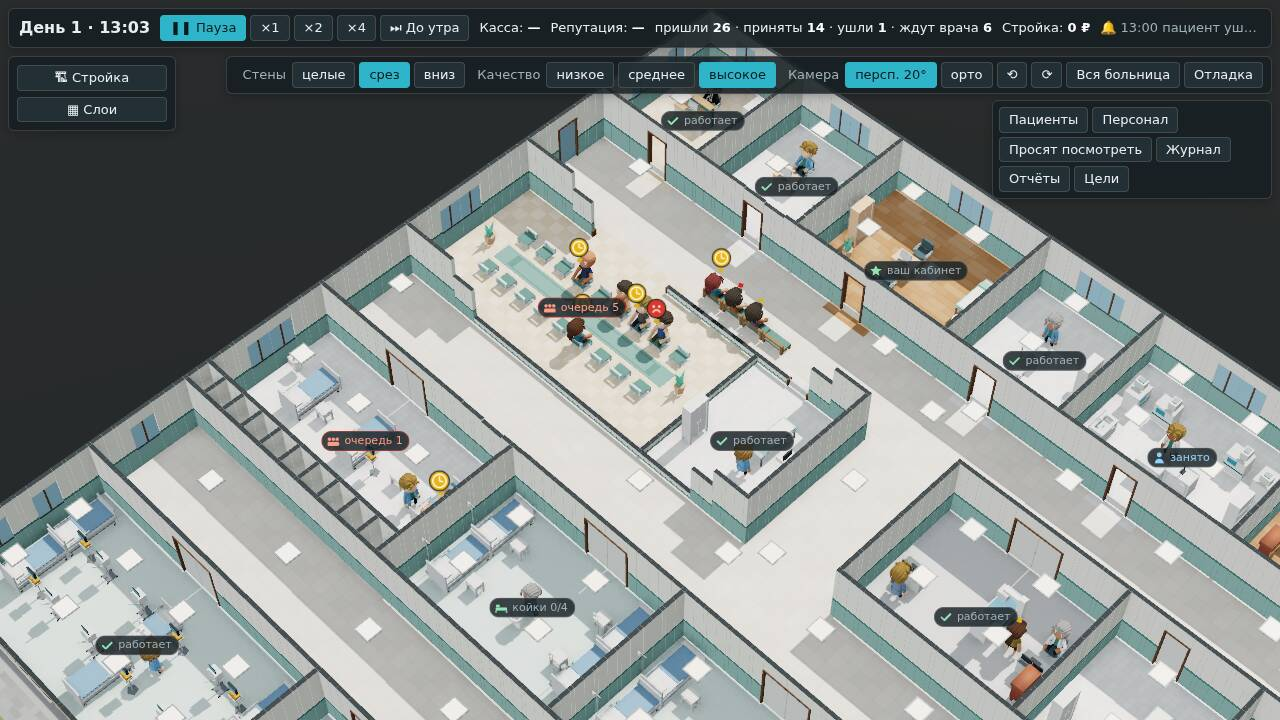
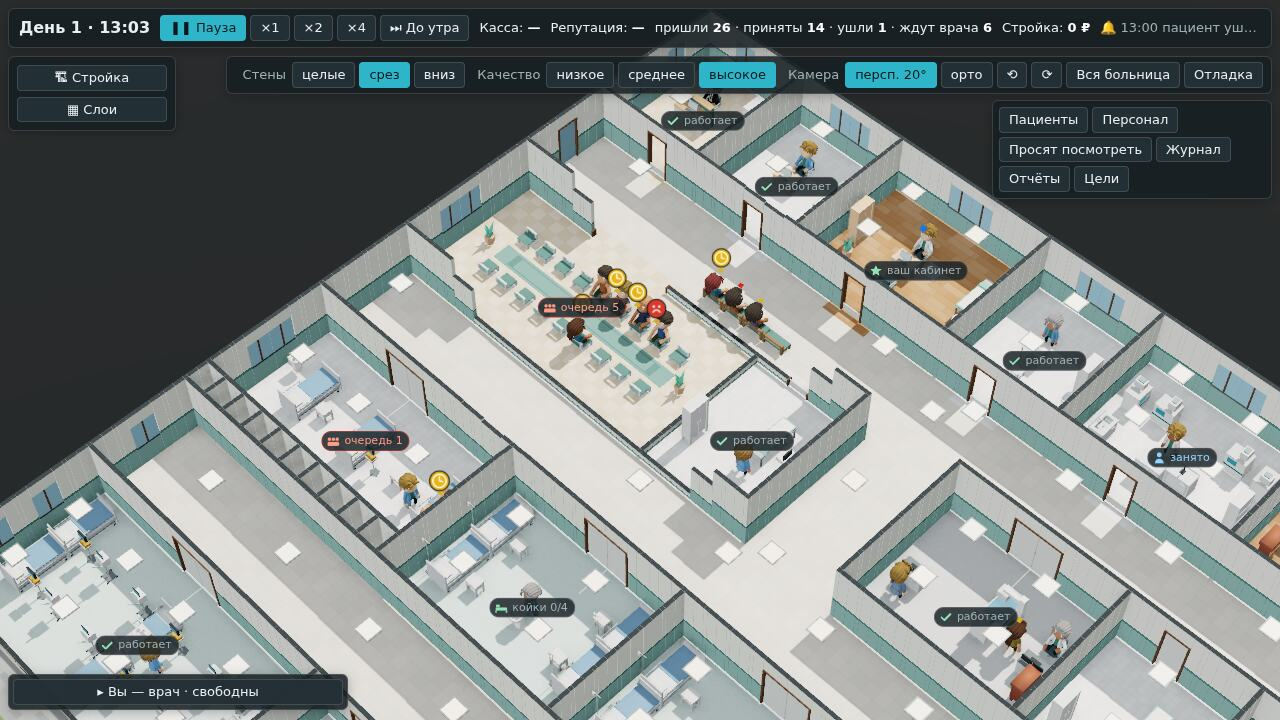
Часть 3 на слитом коде: сценарий — четыре части, в части 3 окно врача свёрнуто и автопауза выключена; снимки заново; спецификация — проверки
Сценарий в браузере на коде, слитом с main (#20), — все четыре части зелёные; `npm test` — 647 тестов, все зелёные. Часть
3 сворачивает окно врача кнопкой (иначе оно закрывает левую часть карты) и выключает автопаузу режима врача (просьбы
останавливали бы часы). Снимки части 3 — заново, с окном врача свёрнутым.

Claude-Session: https://claude.ai/code/session_01YM2DkxcMJ4fGTUC8wUjV2Z

Changed region(s): [[0.0, 0.9167, 0.2812, 1.0], [0.4375, 0.3361, 0.5312, 0.4583], [0.6875, 0.3056, 0.75, 0.3667]]

diff --git a/docs/specs/2026-10-flow-ui.md b/docs/specs/2026-10-flow-ui.md
@@ -200,7 +200,7 @@
 - **Срез**: `since`, `limit`, просьба — туда и обратно в упаковке; «ждёт обследования» до начала процедуры.
 - **Окно** (`tools/test/flow-ui.test.ts`, без DOM): строки пути из пути движка (причины, длительности, ушёл), состояние
   помещений, очередь и ожидание по помещениям, фильтры списка.
-- **Сценарий в браузере** (`npm run e2e`, часть 3): готовая больница к 11:30 — пациенты ходят (люди сдвигаются), есть
+- **Сценарий в браузере** (`npm run e2e`, часть 3): готовая больница к 13:00 — пациенты ходят (люди сдвигаются), есть
   значок «ждёт долго» или «недоволен», значки помещений; вкладка «Пациенты» — фильтр, клик — камера летит, карточка с
   путём и причиной ожидания; «Ушли» — путь ушедшего с причиной; слой — пол окрашен, над помещениями очередь; снимки.
 
@@ -243,8 +243,9 @@
 
 ## Как сделано
 
-Сделано 17.10.2026 в ветке `claude/flow-ui` (на `main` с #18 и #19). Снимки и числа — из контейнера агента: видеокарты
-там нет, WebGL программный (SwiftShader), а процессор делили параллельные сессии других частей.
+Сделано 17.10.2026 в ветке `claude/flow-ui` (на `main` с #18, #19 и режимом врача #20; версия 0.0.6). Снимки и числа —
+из контейнера агента: видеокарты там нет, WebGL программный (SwiftShader), а процессор делили параллельные сессии других
+частей.
 
 **Что видит игрок.** В готовой больнице к полудню у единственного терапевта — очередь: над ждущими в зале — жёлтые
 часы («ждёт долго»), у того, чьё терпение на исходе, — красное недовольное лицо; кто не дождался, встаёт и идёт к выходу
@@ -271,21 +272,25 @@
 5. **Время ухода в «Ушли»** — срок терпения из среза (`limit`): извещение при промотке приходит в окно позже, чем человек
    ушёл.
 6. **Сценарий в браузере**: порт — `--port` (сценарии других частей шли в это время на 8093); часть 1 ждёт первого
-   пациента — без видеокарты и при занятом процессоре кадров мало, а часы игры идут по кадрам.
+   пациента — без видеокарты и при занятом процессоре кадров мало, а часы игры идут по кадрам; часть 3 выключает
+   автопаузу режима врача (часть 4): просьбы врачей останавливали бы часы, а здесь смотрят поток.
+7. **С режимом врача** (#20) — в одной карточке: «Взять случай» и под ним «Путь пациента»; у ушедшего «Взять случай» нет.
+   Ваш больной на приёме — в вашем кабинете (срез части 4), путь пишет его как «у вас».
 
 **Проверки.**
 
-- `npm test` — TESTCOUNT. Новые: `journey.test.ts` (13: только в потоке для ПК; шаги по порядку и без пустых ожиданий;
-  причины — заняты все, никто не принимает, ждёт вас, у входа, стоя; ушедший — ровно своё терпение; очередь у кабинета —
-  пока его занимал другой; свои койки заняты; просьба врача — ждёт ответа, направлен, решает сам; детерминизм при шаге 60
-  и 15 с и в потоке расчёта; путь выбранного в срезе; хранение — сутки, лежащих — пока лежат, не больше 600; срез и
-  упаковка; «ждёт обследования» только при очереди) и `flow-ui.test.ts` (11: строки пути, нагрузка и значки помещений,
-  цвет пола, строки и фильтры вкладки, значки настроения). Золотые отпечатки, `infer-speed`, разбор «Анамнеза» — те же
-  числа.
-- `npm run e2e` — три части зелёные; часть 3: пациенты ходят, значки «ждёт долго» и «недоволен», значки 28 помещений
-  («очередь 5», «очередь 1»), «Пациенты» — фильтр «ждут врача», щелчок — камера у человека (масштаб 28 → 9), путь с
-  причиной, «Ушли» — почему ушла, слой — окрашено 4 помещения, ушедший идёт к выходу со значком (13:48). Ошибок в консоли
-  и запросов наружу нет.
+- `npm test` — 647 тестов в 38 файлах, все зелёные (на коде, слитом с `main`). Новые: `journey.test.ts` (13: только в
+  потоке для ПК; шаги по порядку и без пустых ожиданий; причины — заняты все, никто не принимает, ждёт вас, у входа,
+  стоя; ушедший — ровно своё терпение; очередь у кабинета — пока его занимал другой; свои койки заняты; просьба врача —
+  ждёт ответа, направлен, решает сам; детерминизм при шаге 60 и 15 с и в потоке расчёта; путь выбранного в срезе;
+  хранение — сутки, лежащих — пока лежат, не больше 600; срез и упаковка; «ждёт обследования» только при очереди) и
+  `flow-ui.test.ts` (11: строки пути, нагрузка и значки помещений, цвет пола, строки и фильтры вкладки, значки
+  настроения). Золотые отпечатки, `infer-speed`, разбор «Анамнеза» — те же числа.
+- `npm run e2e` — все четыре части зелёные (на коде, слитом с `main`; часть 4 — режим врача). Часть 3: окно врача
+  свёрнуто кнопкой, автопауза выключена; пациенты ходят, значки «ждёт долго» (5) и «недоволен» (1), значки 28 помещений
+  («очередь 5», «очередь 1»), «Пациенты» — фильтр «ждут врача» (6), щелчок — камера у человека (масштаб 28 → 9), путь с
+  причиной, «Ушли» — почему ушла, слой — окрашено 4 помещения, ушедший идёт к выходу со значком (13:49). Ошибок в
+  консоли и запросов наружу нет.
 - **Бенч движка** (`env -u BUN_OPTIONS npm run bench -- --mode flow --quick`), мс на игровую минуту 09:00–14:00,
   медиана, прогоны `main` и ветки по очереди (средняя нагрузка машины — 3–7 на 4 ядра):
 
@@ -302,7 +307,7 @@
   → 1058 КБ), +206 КБ на 200 (3791 → 3997 КБ), +280 КБ на 300 (5554 → 5834 КБ): пути — 6–8 % снимка.
 
 **Снимки** — [`docs/reports/2026-10-flow-ui/`](../reports/2026-10-flow-ui/) (сценарий в браузере,
-`node tools/app/e2e.mjs --only 3 --shots high`: Chromium без окна, «высокое», 1280×720):
+`node tools/app/e2e.mjs --only 3 --shots high`: Chromium без окна, «высокое», 1280×720; окно врача свёрнуто):
 
 - `1-icons.jpg` — 13:03, зал ожидания крупно: над ждущими — жёлтые часы «ждёт долго» и красное лицо «недоволен», над залом —
   «очередь 5», над смотровой — «очередь 1», над остальными помещениями — «работает», «занято», «ваш кабинет», «койки 0/4».
@@ -314,5 +319,5 @@
 
 **Чего нет:** персонал не ходит, каталок нет; регистрация без очереди (вопрос 6); остальные слои геймдизайна — «позже» в
 меню; отделения в фильтре — с отделениями среза; не принятые к концу дня — в «Ушли» не попадают (сутки целиком — часть 5а);
-медицины в карточке главврача нет — диагноз и правда — карта пациента и разбор (часть 4).
+медицины в карточке главврача нет — диагноз и правда — карта пациента и разбор (часть 4, #20).
 
